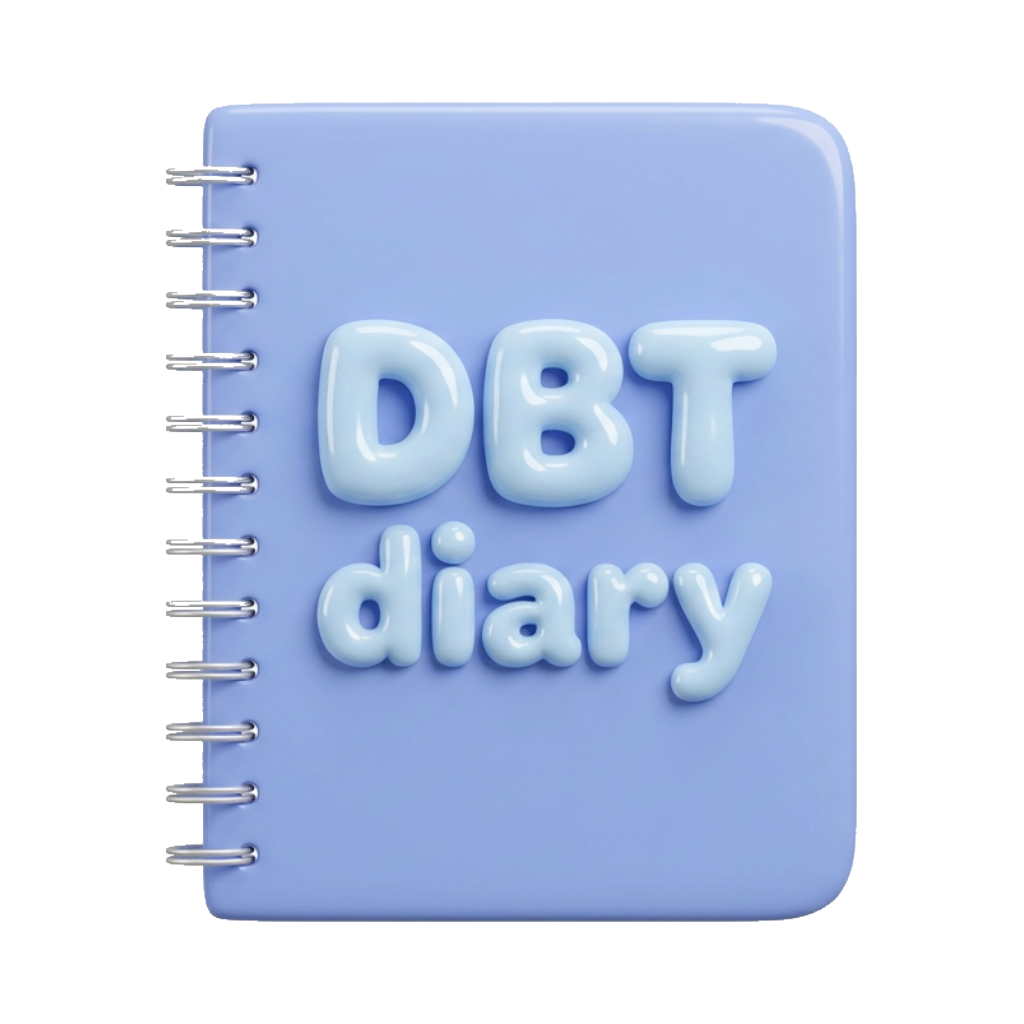
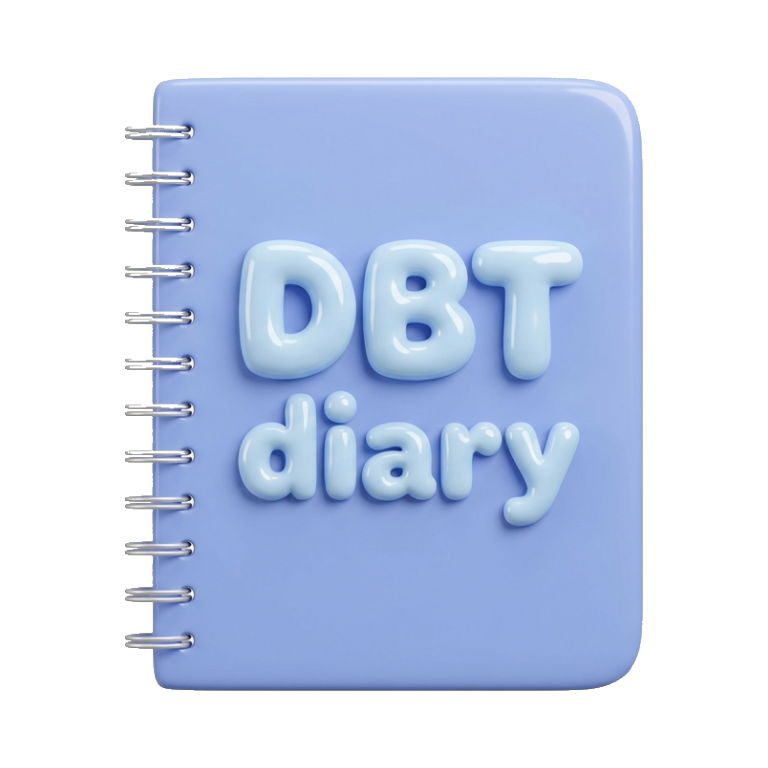
Тетрадь: ассет 768×768 с адаптивным PNG-фильтром (933 → 373 КБ)
Иллюстрация на экране не крупнее 252 CSS px, так что 768 px с запасом
хватает и для Retina; фильтры по строкам выбираются по энтропии, поэтому
градиент обложки сжимается почти втрое без потери вида.

diff --git a/scripts/make-workbook-art.py b/scripts/make-workbook-art.py
@@ -6,7 +6,7 @@
 по связности), а не глобальным порогом: серебристая пружина на обложке тоже
 светлая, и глобальный knockout пробил бы в ней дырки.
 
-Результат: app/assets/workbook/dbt-diary.png (1024×1024, прозрачный фон,
+Результат: app/assets/workbook/dbt-diary.png (768×768, прозрачный фон,
 персонаж отсутствует — на обложке только наивная бабл-надпись «DBT diary»).
 
 Запуск:  python3 scripts/make-workbook-art.py
@@ -20,8 +20,8 @@ ROOT = Path(__file__).resolve().parents[1]
 SRC = ROOT / "scripts" / "art-src" / "dbt-diary-src.png"
 OUT_DIR = ROOT / "app" / "assets" / "workbook"
 OUT = OUT_DIR / "dbt-diary.png"
-CANVAS = 1024
-CONTENT_BOX = 820
+CANVAS = 768  # хватает с запасом: на экране картинка не крупнее 252 CSS px (×2 DPI)
+CONTENT_BOX = int(CANVAS * 0.8)  # поля вокруг картинки — как air-отступы в приложении
 FUZZ = 26  # насколько «белым» должен быть пиксель, чтобы считаться фоном
 
 
@@ -89,10 +89,37 @@ def read_png(path: Path):
 def write_png(path: Path, width: int, height: int, rgba: bytearray) -> None:
     import zlib
 
+    # адаптивный выбор фильтра по строке — заметно уменьшает вес гладких градиентов
     raw = bytearray()
+    stride = width * 4
+    prev = bytearray(stride)
     for y in range(height):
-        raw.append(0)
-        raw += rgba[y * width * 4:(y + 1) * width * 4]
+        line = rgba[y * stride:(y + 1) * stride]
+        best, best_score, best_filtered = 0, None, None
+        for filt in range(5):
+            out = bytearray(stride)
+            for i in range(stride):
+                a = line[i - 4] if i >= 4 else 0
+                b = prev[i]
+                c = prev[i - 4] if i >= 4 else 0
+                x = line[i]
+                if filt == 1:
+                    x -= a
+                elif filt == 2:
+                    x -= b
+                elif filt == 3:
+                    x -= (a + b) >> 1
+                elif filt == 4:
+                    pp = a + b - c
+                    pa, pb, pc = abs(pp - a), abs(pp - b), abs(pp - c)
+                    x -= a if (pa <= pb and pa <= pc) else (b if pb <= pc else c)
+                out[i] = x & 0xFF
+            score = sum(v if v < 128 else 256 - v for v in out)
+            if best_score is None or score < best_score:
+                best, best_score, best_filtered = filt, score, out
+        raw.append(best)
+        raw += best_filtered
+        prev = line
 
     def chunk(kind: bytes, body: bytes) -> bytes:
         return (len(body).to_bytes(4, "big") + kind + body
